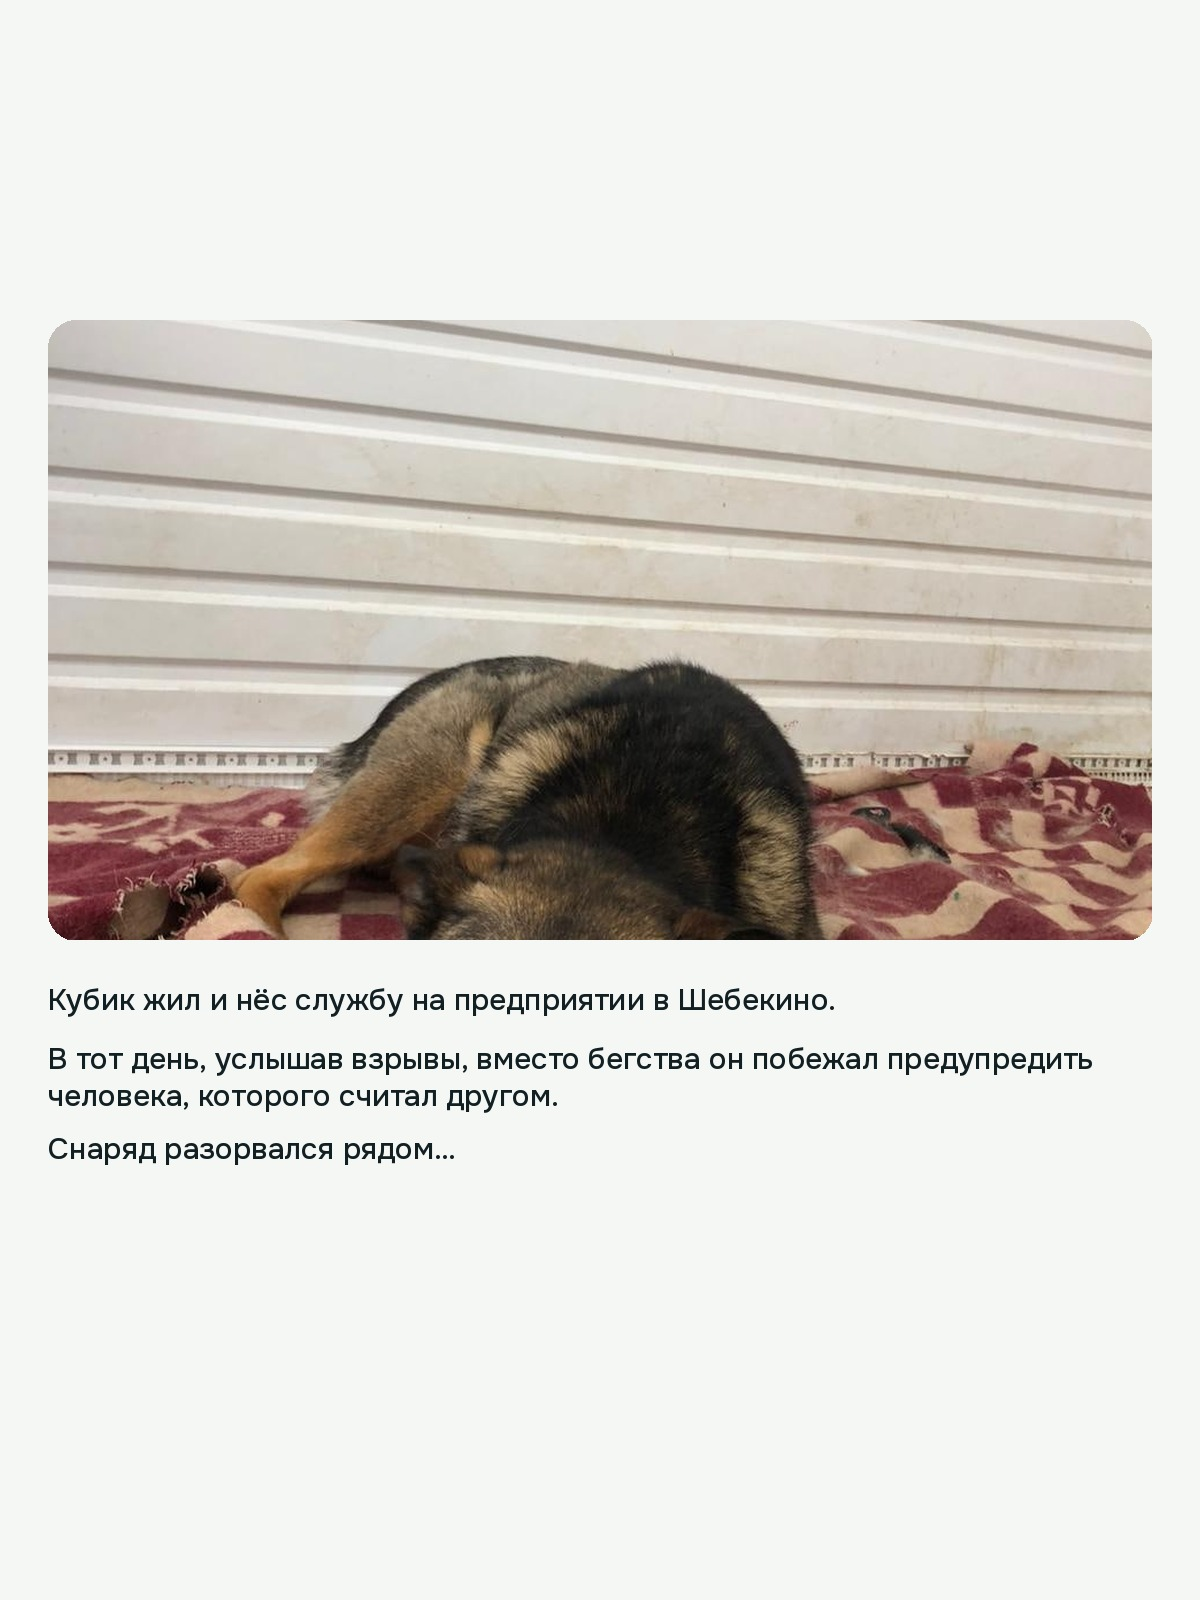
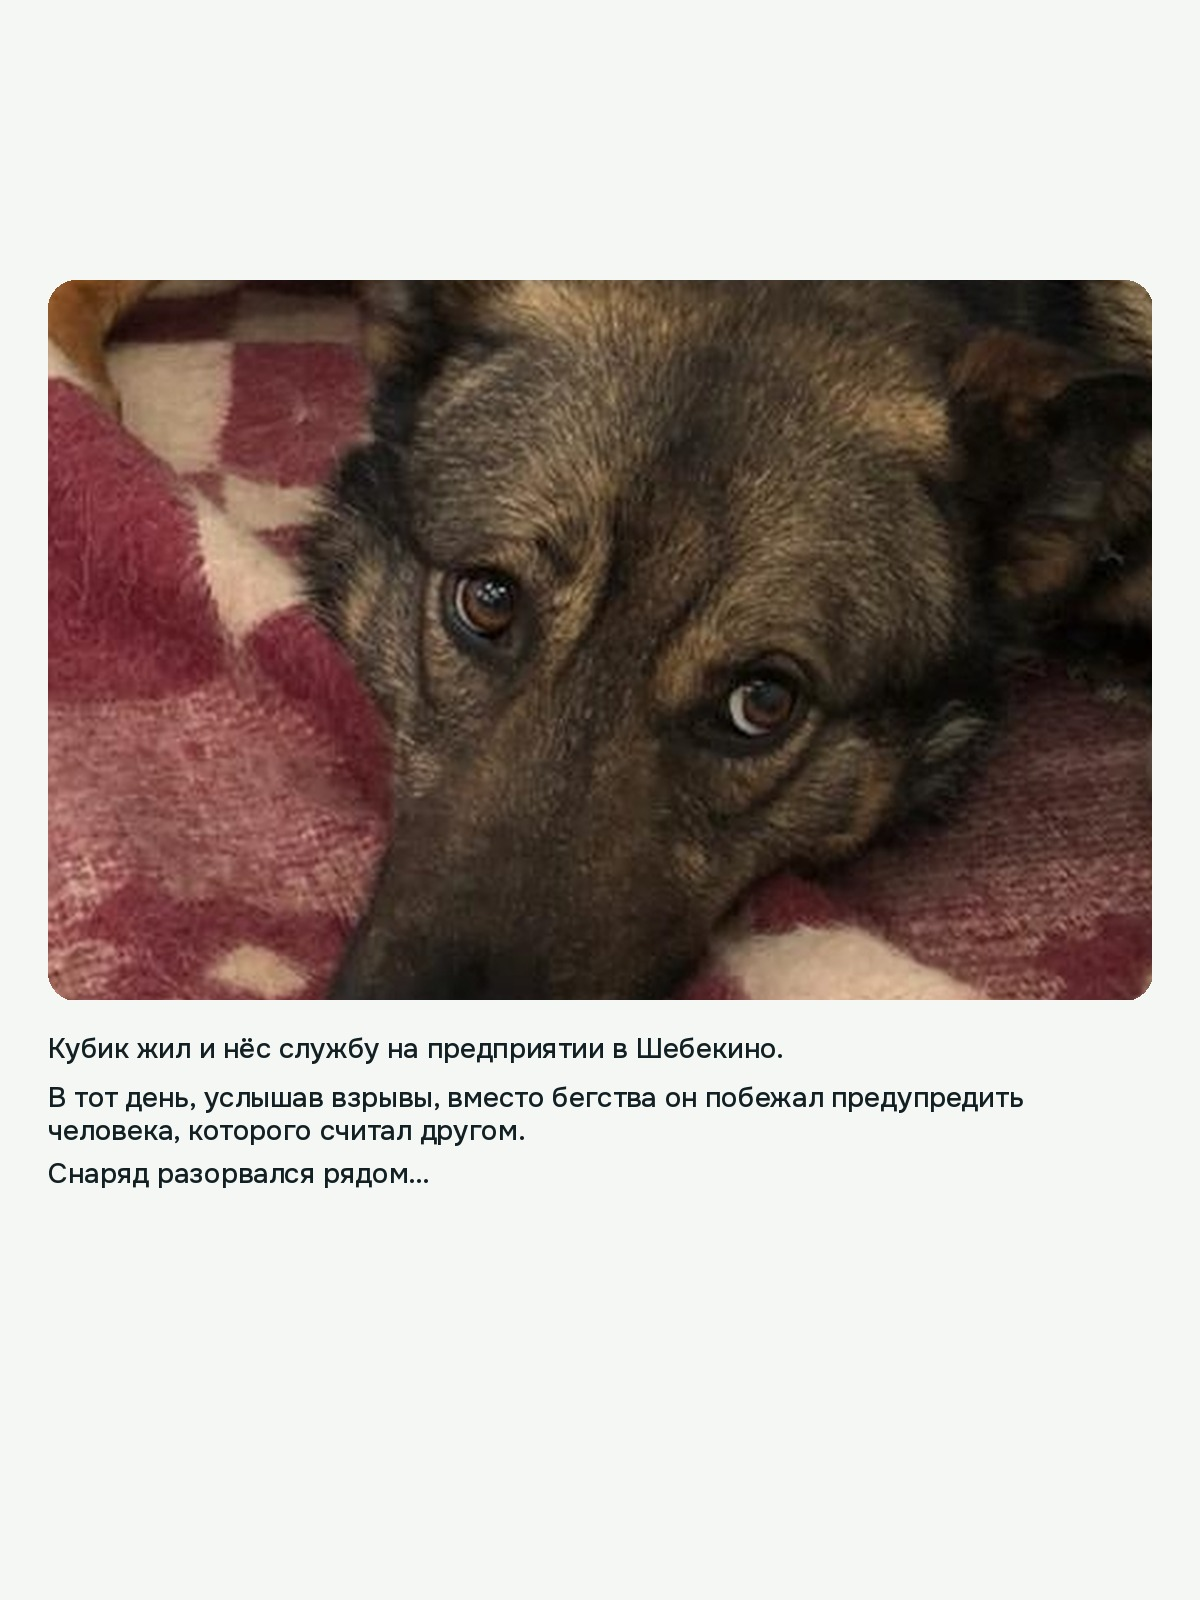
Center Kubik in Ozon card crops
Trim letterbox bars, focus crops on the dog's face,
and tighten zoom so subjects sit in the middle of each slide.

diff --git a/scripts/generate_cards.py b/scripts/generate_cards.py
@@ -41,18 +41,82 @@ def round_rect(draw, xy, r, fill=None, outline=None, width=1):
     draw.rounded_rectangle(xy, radius=r, fill=fill, outline=outline, width=width)
 
 
-def fit_cover(img: Image.Image, size: tuple[int, int], focus=(0.5, 0.38)) -> Image.Image:
+# Relative subject centers in source photos (dog head), after letterbox trim
+FOCUS = {
+    "01-outdoor-portrait.jpg": (0.55, 0.62),
+    "02-outdoor-yard.jpg": (0.30, 0.62),  # grey/tan Kubik on the left
+    "03-recovered-brace.jpg": (0.62, 0.45),
+    "04-soft-portrait.jpg": (0.48, 0.66),
+    "05-recovery-bandages.jpg": (0.52, 0.40),
+    "06-recovery-crate.jpg": (0.58, 0.50),
+    "07-emergency.jpg": (0.52, 0.50),
+}
+
+# Extra zoom per photo so the dog fills the frame
+ZOOM = {
+    "01-outdoor-portrait.jpg": 1.5,
+    "02-outdoor-yard.jpg": 1.9,
+    "03-recovered-brace.jpg": 1.7,
+    "04-soft-portrait.jpg": 2.0,
+    "05-recovery-bandages.jpg": 1.45,
+    "06-recovery-crate.jpg": 1.75,
+    "07-emergency.jpg": 1.3,
+}
+
+
+def trim_letterbox(img: Image.Image, threshold: int = 14) -> Image.Image:
+    """Remove near-black letterbox bars common in phone exports."""
+    arr = img.convert("RGB")
+    px = arr.load()
+    w, h = arr.size
+    def row_bright(y):
+        return sum(sum(px[x, y]) for x in range(0, w, max(1, w // 40))) / (3 * (w // max(1, w // 40) + 1))
+    def col_bright(x):
+        return sum(sum(px[x, y]) for y in range(0, h, max(1, h // 40))) / (3 * (h // max(1, h // 40) + 1))
+    top = 0
+    while top < h - 1 and row_bright(top) < threshold:
+        top += 1
+    bottom = h - 1
+    while bottom > top and row_bright(bottom) < threshold:
+        bottom -= 1
+    left = 0
+    while left < w - 1 and col_bright(left) < threshold:
+        left += 1
+    right = w - 1
+    while right > left and col_bright(right) < threshold:
+        right -= 1
+    if bottom - top < h * 0.5 or right - left < w * 0.5:
+        return img  # safety
+    return img.crop((left, top, right + 1, bottom + 1))
+
+
+def fit_cover(
+    img: Image.Image,
+    size: tuple[int, int],
+    focus=(0.5, 0.5),
+    zoom: float = 1.0,
+) -> Image.Image:
+    """Crop/scale so `focus` (x,y in source 0..1) lands at the center of the output.
+
+    zoom > 1 tightens on the subject (useful when the dog sits low in frame).
+    """
     tw, th = size
-    img = img.convert("RGB")
+    img = trim_letterbox(img.convert("RGB"))
     sw, sh = img.size
-    scale = max(tw / sw, th / sh)
-    nw, nh = int(sw * scale), int(sh * scale)
+    scale = max(tw / sw, th / sh) * max(zoom, 1.0)
+    nw, nh = max(tw, int(sw * scale + 0.5)), max(th, int(sh * scale + 0.5))
     img = img.resize((nw, nh), Image.Resampling.LANCZOS)
-    left = int((nw - tw) * focus[0])
-    top = int((nh - th) * focus[1])
+    cx, cy = focus[0] * nw, focus[1] * nh
+    left = int(round(cx - tw / 2))
+    top = int(round(cy - th / 2))
     left = max(0, min(left, nw - tw))
     top = max(0, min(top, nh - th))
     return img.crop((left, top, left + tw, top + th))
+
+
+def photo(name: str, size: tuple[int, int], zoom: float | None = None) -> Image.Image:
+    z = ZOOM[name] if zoom is None else zoom
+    return fit_cover(load(name), size, focus=FOCUS[name], zoom=z)
 
 
 def darken(img: Image.Image, factor=0.55) -> Image.Image:
@@ -123,8 +187,8 @@ def load(name: str) -> Image.Image:
 
 
 def card_cover():
-    photo = fit_cover(load("01-outdoor-portrait.jpg"), (W, H), focus=(0.52, 0.32))
-    base = photo.convert("RGBA")
+    shot = photo("01-outdoor-portrait.jpg", (W, H))
+    base = shot.convert("RGBA")
     base = Image.alpha_composite(base, gradient_overlay((W, H), 20, 235))
     # top soft vignette
     top = gradient_overlay((W, H), 120, 0, color=(15, 42, 46))
@@ -152,8 +216,8 @@ def card_cover():
 
 def card_hero():
     canvas = Image.new("RGB", (W, H), C["deep"])
-    photo = fit_cover(load("03-recovered-brace.jpg"), (W, 980), focus=(0.45, 0.35))
-    canvas.paste(photo, (0, 0))
+    shot = photo("03-recovered-brace.jpg", (W, 980))
+    canvas.paste(shot, (0, 0))
 
     # bottom panel
     draw = ImageDraw.Draw(canvas, "RGBA")
@@ -218,33 +282,33 @@ def card_story():
         line_gap=6,
     )
 
-    photo = fit_cover(load("04-soft-portrait.jpg"), (W - 96, 620), focus=(0.5, 0.35))
-    # rounded photo via mask
-    mask = Image.new("L", photo.size, 0)
-    ImageDraw.Draw(mask).rounded_rectangle((0, 0, photo.size[0], photo.size[1]), 28, fill=255)
+    # Taller centered crop so Kubik fills the middle of the frame
+    shot = photo("04-soft-portrait.jpg", (W - 96, 720))
+    mask = Image.new("L", shot.size, 0)
+    ImageDraw.Draw(mask).rounded_rectangle((0, 0, shot.size[0], shot.size[1]), 28, fill=255)
     layer = Image.new("RGB", (W, H), C["sand"])
-    layer.paste(photo, (48, 320), mask)
+    layer.paste(shot, (48, 280), mask)
     canvas.paste(layer)
 
     draw = ImageDraw.Draw(canvas)
-    body = font(30, 500)
+    body = font(28, 500)
     paragraphs = [
         "Кубик жил и нёс службу на предприятии в Шебекино.",
         "В тот день, услышав взрывы, вместо бегства он побежал предупредить человека, которого считал другом.",
         "Снаряд разорвался рядом…",
     ]
-    y = 980
+    y = 1030
     for p in paragraphs:
         lines = text_wrap(draw, p, body, W - 120)
-        y = draw_multiline(draw, lines, (48, y), body, C["ink"], line_gap=8)
-        y += 22
+        y = draw_multiline(draw, lines, (48, y), body, C["ink"], line_gap=6)
+        y += 16
 
     canvas.save(OUT / "03-story.jpg", quality=92, optimize=True)
 
 
 def card_injury():
-    photo = fit_cover(load("05-recovery-bandages.jpg"), (W, H), focus=(0.5, 0.4))
-    base = photo.convert("RGBA")
+    shot = photo("05-recovery-bandages.jpg", (W, H))
+    base = shot.convert("RGBA")
     base = Image.alpha_composite(base, gradient_overlay((W, H), 40, 230))
     draw = ImageDraw.Draw(base)
 
@@ -280,10 +344,10 @@ def card_injury():
 
 def card_rehab():
     canvas = Image.new("RGB", (W, H), C["deep"])
-    photo = fit_cover(load("06-recovery-crate.jpg"), (W - 96, 720), focus=(0.45, 0.35))
-    mask = Image.new("L", photo.size, 0)
-    ImageDraw.Draw(mask).rounded_rectangle((0, 0, *photo.size), 28, fill=255)
-    canvas.paste(photo, (48, 48), mask)
+    shot = photo("06-recovery-crate.jpg", (W - 96, 720))
+    mask = Image.new("L", shot.size, 0)
+    ImageDraw.Draw(mask).rounded_rectangle((0, 0, *shot.size), 28, fill=255)
+    canvas.paste(shot, (48, 48), mask)
 
     draw = ImageDraw.Draw(canvas)
     badge(draw, "РЕАБИЛИТАЦИЯ", (48, 810), bg=C["mint"], fg=C["deep"])
@@ -318,8 +382,8 @@ def card_rehab():
 
 
 def card_now():
-    photo = fit_cover(load("01-outdoor-portrait.jpg"), (W, H), focus=(0.5, 0.34))
-    base = photo.convert("RGBA")
+    shot = photo("01-outdoor-portrait.jpg", (W, H))
+    base = shot.convert("RGBA")
     # side gradient for text readability
     side = Image.new("RGBA", (W, H), (0, 0, 0, 0))
     px = side.load()
@@ -352,10 +416,10 @@ def card_character():
     canvas = Image.new("RGB", (W, H), C["sand"])
     draw = ImageDraw.Draw(canvas)
 
-    photo = fit_cover(load("03-recovered-brace.jpg"), (W - 96, 560), focus=(0.42, 0.4))
-    mask = Image.new("L", photo.size, 0)
-    ImageDraw.Draw(mask).rounded_rectangle((0, 0, *photo.size), 28, fill=255)
-    canvas.paste(photo, (48, 48), mask)
+    shot = photo("03-recovered-brace.jpg", (W - 96, 560))
+    mask = Image.new("L", shot.size, 0)
+    ImageDraw.Draw(mask).rounded_rectangle((0, 0, *shot.size), 28, fill=255)
+    canvas.paste(shot, (48, 48), mask)
 
     draw = ImageDraw.Draw(canvas)
     badge(draw, "ХАРАКТЕР", (48, 640), bg=C["deep"], fg=C["mint"])
@@ -386,8 +450,8 @@ def card_character():
 
 
 def card_home():
-    photo = fit_cover(load("04-soft-portrait.jpg"), (W, H), focus=(0.5, 0.32))
-    base = photo.convert("RGBA")
+    shot = photo("04-soft-portrait.jpg", (W, H))
+    base = shot.convert("RGBA")
     base = Image.alpha_composite(base, gradient_overlay((W, H), 30, 240))
     draw = ImageDraw.Draw(base)
 
@@ -460,8 +524,8 @@ def card_help():
 
 def card_gallery_extra():
     """Extra lifestyle outdoor yard shot."""
-    photo = fit_cover(load("02-outdoor-yard.jpg"), (W, H), focus=(0.45, 0.45))
-    base = photo.convert("RGBA")
+    shot = photo("02-outdoor-yard.jpg", (W, H))
+    base = shot.convert("RGBA")
     base = Image.alpha_composite(base, gradient_overlay((W, H), 15, 200))
     draw = ImageDraw.Draw(base)
     badge(draw, "ЖИЗНЬ В ПРИЮТЕ", (48, 56), bg=C["white"], fg=C["deep"])
